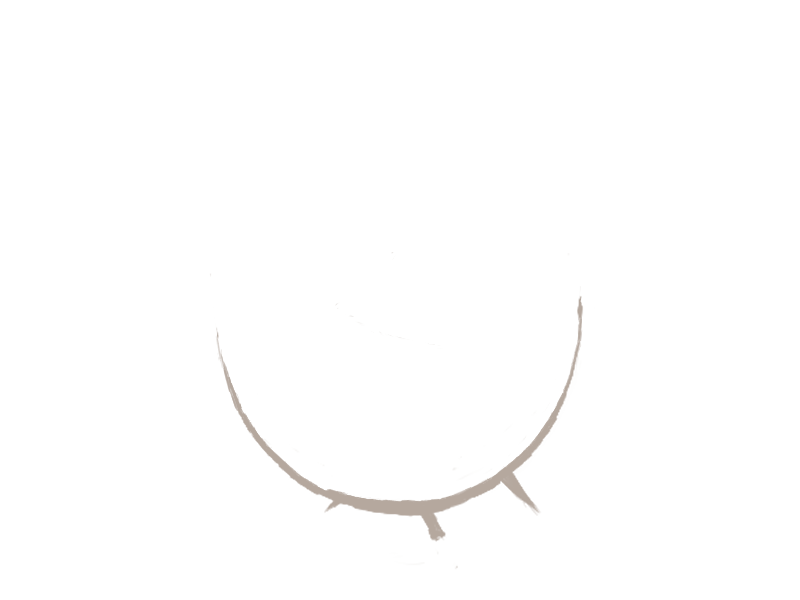
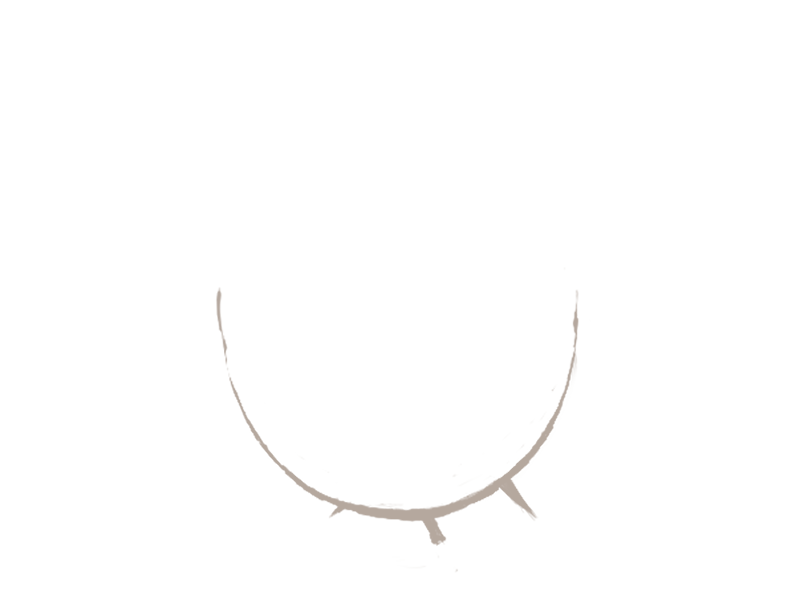
fixed scaling issue of the window fixed alignment issue of the image transition

diff --git a/Tomato-Timer.py b/Tomato-Timer.py
@@ -7,10 +7,10 @@ scale = 1.5
 adaptive_scale = 1.5
 QT_SCALE_FACTOR = 3
 button_state = 0
-time_state = 0
+time_state = 1
 settings_state = 0
 rotation = 0
-count = 1800
+count = 1
 width = 400
 height = 700
 bg_color = "#fad8d8"
@@ -37,8 +37,6 @@ class Window(QWidget):
     def initUI(self):
         self.setWindowTitle("Tomato Timer")
         self.setGeometry(int(300*scale), int(300*scale), int(width*scale), int(height*scale))
-        #remove frame
-        #self.setWindowFlag(Qt.FramelessWindowHint)
         #make the main window transparent
         self.setAttribute(Qt.WA_TranslucentBackground)
         
@@ -186,15 +184,15 @@ class Window(QWidget):
         qp.drawRoundedRect(QRect(0, 0, self.size().width(), self.size().height()), corner_radius, corner_radius)
         
         if(time_state == 0):
-            qp.drawPixmap(int(200*scale - 164*adaptive_scale), int(19 + 50*adaptive_scale - 10*scale), int(328*adaptive_scale), int(246*adaptive_scale), QPixmap("img/cutting_board.png"))
+            qp.drawPixmap(int(200*scale - 164*adaptive_scale), int(19 + 50*adaptive_scale + 5*scale), int(328*adaptive_scale), int(246*adaptive_scale), QPixmap("img/cutting_board.png"))
             qp.setOpacity((count-300)/1500)
-            qp.drawPixmap(int(200*scale - 164*adaptive_scale), int(19 + 50*adaptive_scale - 10*scale), int(328*adaptive_scale), int(246*adaptive_scale), QPixmap("img/cutting_board_2.png"))
+            qp.drawPixmap(int(200*scale - 164*adaptive_scale), int(19 + 50*adaptive_scale + 5*scale), int(328*adaptive_scale), int(246*adaptive_scale), QPixmap("img/cutting_board_2.png"))
             qp.setOpacity(1)
-            qp.drawPixmap(int(200*scale - 75*adaptive_scale), int(19 + 50*adaptive_scale + 50*scale), int(150*adaptive_scale), int(150*adaptive_scale), QPixmap("img/tomato_slice.png"))
+            qp.drawPixmap(int(200*scale - 76*adaptive_scale), int(19 + 50*adaptive_scale + 50*scale), int(150*adaptive_scale), int(150*adaptive_scale), QPixmap("img/tomato_slice.png"))
             tomato_image = QImage("img/tomato_peel.png").scaled(int(150*adaptive_scale), int(150*adaptive_scale), Qt.KeepAspectRatio, Qt.SmoothTransformation)
             brush = QBrush(tomato_image)
             # Calculate the top-left corner of where the pie will be drawn
-            pie_x = int(200*scale - 75*adaptive_scale)
+            pie_x = int(200*scale - 76*adaptive_scale)
             pie_y = int(20 + 50*adaptive_scale + 50*scale)
             # Adjust the brush transformation
             brush_transformation = QTransform()
@@ -202,7 +200,7 @@ class Window(QWidget):
             brush.setTransform(brush_transformation)
             qp.setBrush(brush)
             qp.setPen(Qt.NoPen)
-            qp.drawPie(QRect(int(200*scale - 75*adaptive_scale), int(20 + 50*adaptive_scale + 50*scale), int(150*adaptive_scale), int(150*adaptive_scale)), 90*16, int(alen))
+            qp.drawPie(QRect(int(200*scale - 76*adaptive_scale), int(19 + 50*adaptive_scale + 50*scale), int(150*adaptive_scale), int(150*adaptive_scale)), 90*16, int(alen))
             qp.setPen(QPen(QColor("#FF3300"), 3*adaptive_scale))
         """ else: # 5 minutes break
             qp.drawPixmap(int(200*scale - 75*adaptive_scale), int(19 + 50*adaptive_scale + 50*scale), int(151*adaptive_scale), int(151*adaptive_scale), QPixmap("img/test.png")) """
@@ -250,42 +248,39 @@ class Window(QWidget):
     def onLargeClick(self): # Window scale buttons
         self.scaleWindow.setStartValue(adaptive_scale)
         self.scaleWindow.setEndValue(2.0)
-        print("click", self.scaleWindow.startValue(), 2.0)
         self.scaleL.setChecked(True)
         self.slider.setRange(18, 27)
         self.slider.setValue(20)
-        self.Scale()
+        self.Scale(2.0)
     
     def onMediumClick(self):
         self.scaleWindow.setStartValue(adaptive_scale)
         self.scaleWindow.setEndValue(1.5)
-        print("click ", self.scaleWindow.startValue(), 1.5)
         self.scaleM.setChecked(True)
         self.slider.setRange(12, 18)
         self.slider.setValue(15)
-        self.Scale()
+        self.Scale(1.5)
 
     def onSmallClick(self):
         self.scaleWindow.setStartValue(adaptive_scale)
         self.scaleWindow.setEndValue(1.0)
-        print("click ", self.scaleWindow.startValue(), 1.0)
         self.scaleS.setChecked(True)
         self.slider.setRange(10, 13)
         self.slider.setValue(10)
-        self.Scale()
+        self.Scale(1.0)
         
     def onSliderAdjusted(self): # elements scale slider
         global adaptive_scale
         adaptive_scale = self.slider.value() / 10
-        self.Scale()
+        self.Scale(adaptive_scale)
 
     def updateSize(self, value):
         global adaptive_scale, scale
         if value:
             adaptive_scale = scale = value
-        print("update ", adaptive_scale)
-        self.scaleUI()
         self.setBaseSize(int(width*scale), int(height*scale))
+        self.scaleUI()
+        self.updateScale()
         window.update()
     
     def updateClock(self, M, S):
@@ -317,40 +312,36 @@ class Window(QWidget):
         self.slider.setGeometry(int(200*scale - 100), int(height*scale + 120), 200, 30)
         self.calcTime()
     
-    def Scale(self):
+    def Scale(self, new_scale):
         startpos = self.size()
         if(settings_state == 0):
-            newpos = QSize(int(width*scale), int(height*scale))
+            newpos = QSize(int(width*new_scale), int(height*new_scale))
             self.expand.setStartValue(startpos)
             self.expand.setEndValue(newpos)
         else:
-            newpos = QSize(int(width*scale), int(height*scale + 200))
+            newpos = QSize(int(width*new_scale), int(height*new_scale + 200))
             self.expand.setStartValue(startpos)
             self.expand.setEndValue(newpos)
-        self.scaleWindow.start()
-        self.expand.start()
-        self.updateScale()
-        window.update()
-        print("scale")
+        self.scaling.start()
 
     def fade_out(self):
-        self.cutscene.setGeometry(int(200*scale - 164*adaptive_scale), int(19 + 50*adaptive_scale - 10*scale), int(328*adaptive_scale), int(246*adaptive_scale))
+        self.cutscene.setGeometry(int(200*scale - 164*adaptive_scale), int(19 + 50*adaptive_scale + 5*scale), int(328*adaptive_scale), int(246*adaptive_scale))
         self.cutscene.setPixmap(QPixmap("img/fade_out.png").scaled(int(328*adaptive_scale), int(246*adaptive_scale), Qt.KeepAspectRatio, Qt.SmoothTransformation))
         self.fade.setDuration(500)
         self.fade.setEasingCurve(QEasingCurve.OutQuad)
-        self.fade.setStartValue(QRect(int(200*scale - 164*adaptive_scale), int(19 + 50*adaptive_scale - 10*scale), int(328*adaptive_scale), int(246*adaptive_scale)))
-        self.fade.setKeyValueAt(0.2, QRect(int(200*scale - 144*adaptive_scale), int(19 + 50*adaptive_scale - 10*scale), int(328*adaptive_scale), int(246*adaptive_scale)))
-        self.fade.setEndValue(QRect(int(-328*adaptive_scale), int(19 + 50*adaptive_scale - 10*scale), int(328*adaptive_scale), int(246*adaptive_scale)))
+        self.fade.setStartValue(QRect(int(200*scale - 164*adaptive_scale), int(19 + 50*adaptive_scale + 5*scale), int(328*adaptive_scale), int(246*adaptive_scale)))
+        self.fade.setKeyValueAt(0.2, QRect(int(200*scale - 144*adaptive_scale), int(19 + 50*adaptive_scale + 5*scale), int(328*adaptive_scale), int(246*adaptive_scale)))
+        self.fade.setEndValue(QRect(int(-328*adaptive_scale), int(19 + 50*adaptive_scale + 5*scale), int(328*adaptive_scale), int(246*adaptive_scale)))
         self.fade.start()
     
     def fade_in(self):
-        self.cutscene.setGeometry(int(-328*adaptive_scale), int(19 + 50*adaptive_scale - 10*scale), int(328*adaptive_scale), int(246*adaptive_scale))
-        self.cutscene.setPixmap(QPixmap("img/fade_out.png").scaled(int(328*adaptive_scale), int(246*adaptive_scale), Qt.KeepAspectRatio, Qt.SmoothTransformation))
+        self.cutscene.setGeometry(int(-328*adaptive_scale), int(19 + 50*adaptive_scale + 5*scale), int(328*adaptive_scale), int(246*adaptive_scale))
+        self.cutscene.setPixmap(QPixmap("img/fade_in.png").scaled(int(328*adaptive_scale), int(246*adaptive_scale), Qt.KeepAspectRatio, Qt.SmoothTransformation))
         self.fade.setDuration(500)
         self.fade.setEasingCurve(QEasingCurve.OutQuad)
-        self.fade.setStartValue(QRect(int(-328*adaptive_scale), int(19 + 50*adaptive_scale - 10*scale), int(328*adaptive_scale), int(246*adaptive_scale)))
-        self.fade.setKeyValueAt(0.8, QRect(int(200*scale - 144*adaptive_scale), int(19 + 50*adaptive_scale - 10*scale), int(328*adaptive_scale), int(246*adaptive_scale)))
-        self.fade.setEndValue(QRect(int(200*scale - 164*adaptive_scale), int(19 + 50*adaptive_scale - 10*scale), int(328*adaptive_scale), int(246*adaptive_scale)))
+        self.fade.setStartValue(QRect(int(-328*adaptive_scale), int(19 + 50*adaptive_scale + 5*scale), int(328*adaptive_scale), int(246*adaptive_scale)))
+        self.fade.setKeyValueAt(0.8, QRect(int(200*scale - 144*adaptive_scale), int(19 + 50*adaptive_scale + 5*scale), int(328*adaptive_scale), int(246*adaptive_scale)))
+        self.fade.setEndValue(QRect(int(200*scale - 164*adaptive_scale), int(19 + 50*adaptive_scale + 5*scale), int(328*adaptive_scale), int(246*adaptive_scale)))
         self.fade.start()
 class Bar(QWidget):
     clickPos = None
@@ -470,7 +461,7 @@ def tic(): # counter
     elif(count < 0):
         timer.stop()
         window.cutscene.setGeometry(int(-328*adaptive_scale), int(19 + 50*adaptive_scale - 10*scale), int(328*adaptive_scale), int(246*adaptive_scale))
-        count = 300
+        count = 1800
         time_state = 0
         rstTimer.start(1)
     window.update()
